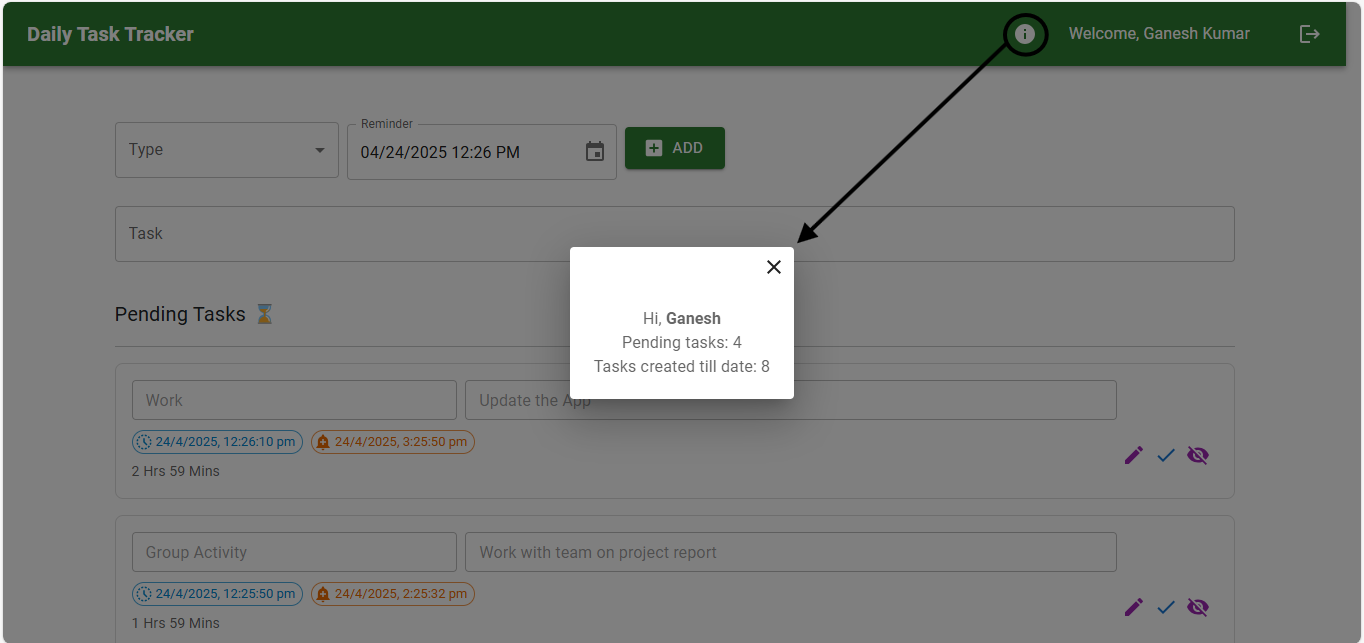
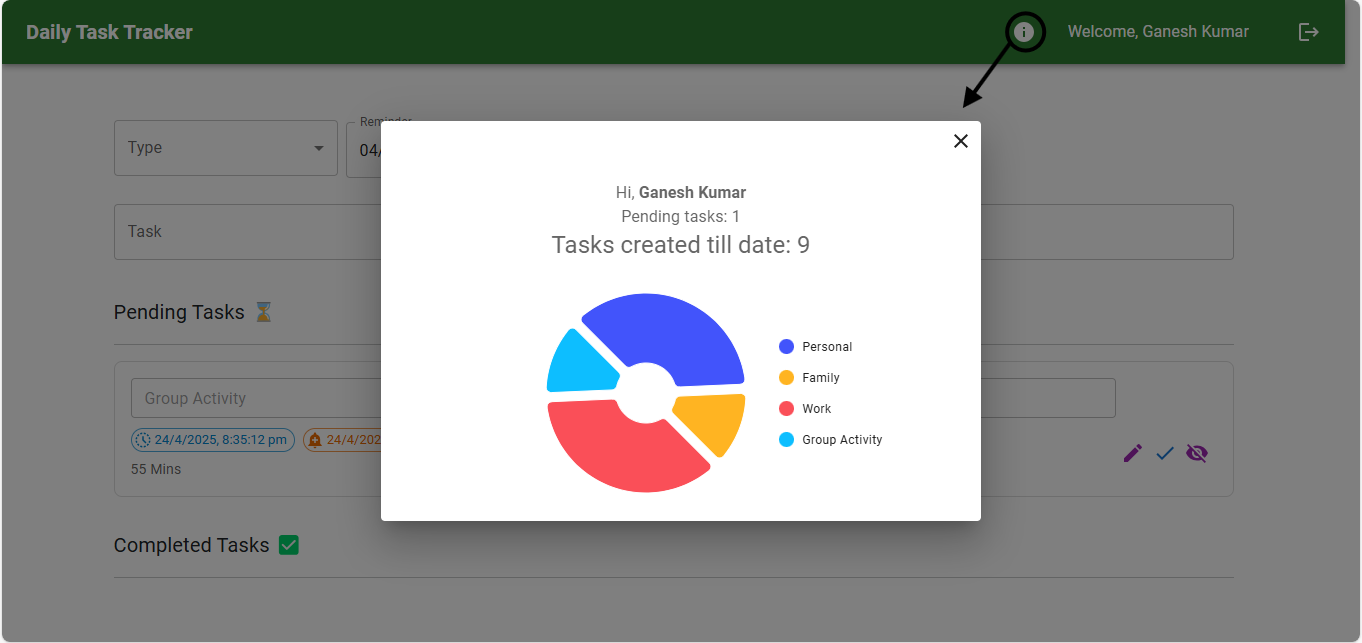
Added pie chart feature to gets task added till date by user

diff --git a/backend/index.js b/backend/index.js
@@ -312,10 +312,31 @@ app.get("/usercount", async (req, res) => {
     const result = await db.query("SELECT * FROM logindata");
     const usercount = parseInt(result.rows.length);
     res.json({ usercount });
-    console.log(usercount);
   } catch (err) {
     console.error("Error:", err);
     res.status(500).json({ error: "Failed to fetch user count" });
+  }
+});
+
+//Costamized API to get rows of values for Pie at Reminder page
+app.get("/reminderspie", validateToken, async (req, res) => {
+  try {
+    const { rows: [{ personalcount, familycount, workcount, groupactivitycount }] } = await db.query(
+      `SELECT 
+        COUNT(*) FILTER (WHERE completestatus AND currentstatus AND type = 'Personal')::integer AS personalcount,
+        COUNT(*) FILTER (WHERE completestatus AND currentstatus AND type = 'Work')::integer AS workcount,
+        COUNT(*) FILTER (WHERE completestatus AND currentstatus AND type = 'Family')::integer AS familycount,
+        COUNT(*) FILTER (WHERE completestatus AND currentstatus AND type = 'Group Activity')::integer AS groupactivitycount
+      FROM post 
+      WHERE user_id = $1`,
+      [req.userId]
+    );
+
+    res.json({ personalcount, familycount, workcount, groupactivitycount });
+    console.log({ personalcount, familycount, workcount, groupactivitycount });
+  } catch (err) {
+    console.error('Error fetching reminders:', err);
+    res.status(500).json({ error: 'Failed to fetch reminders' });
   }
 });
 
